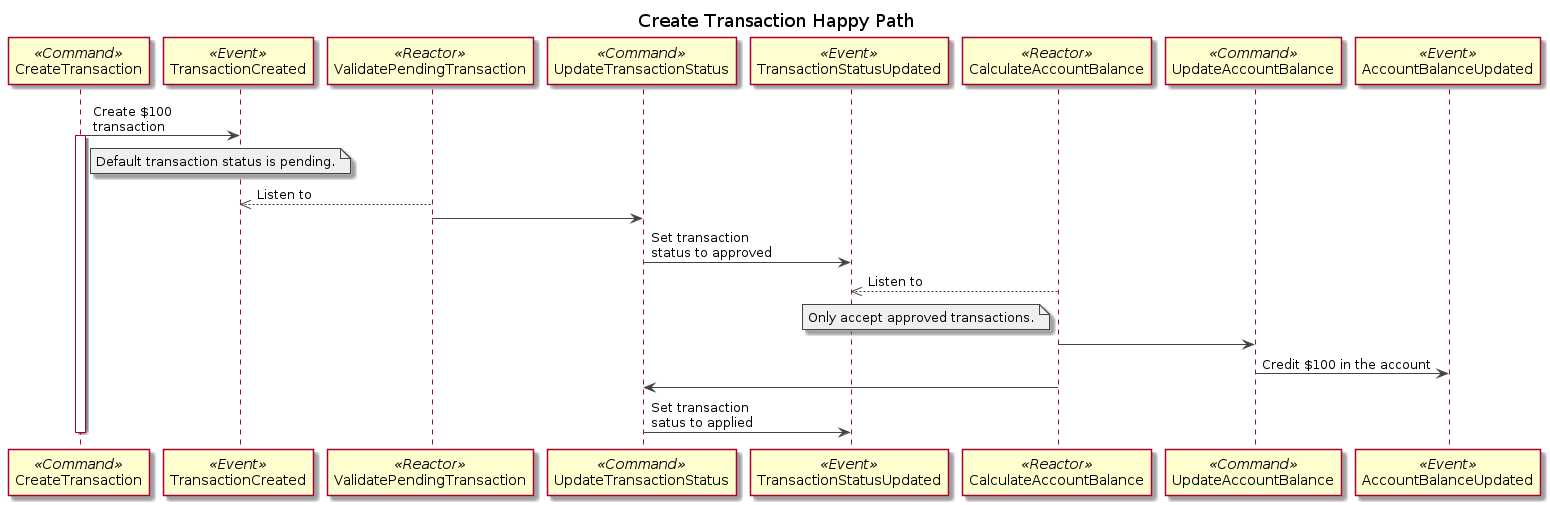
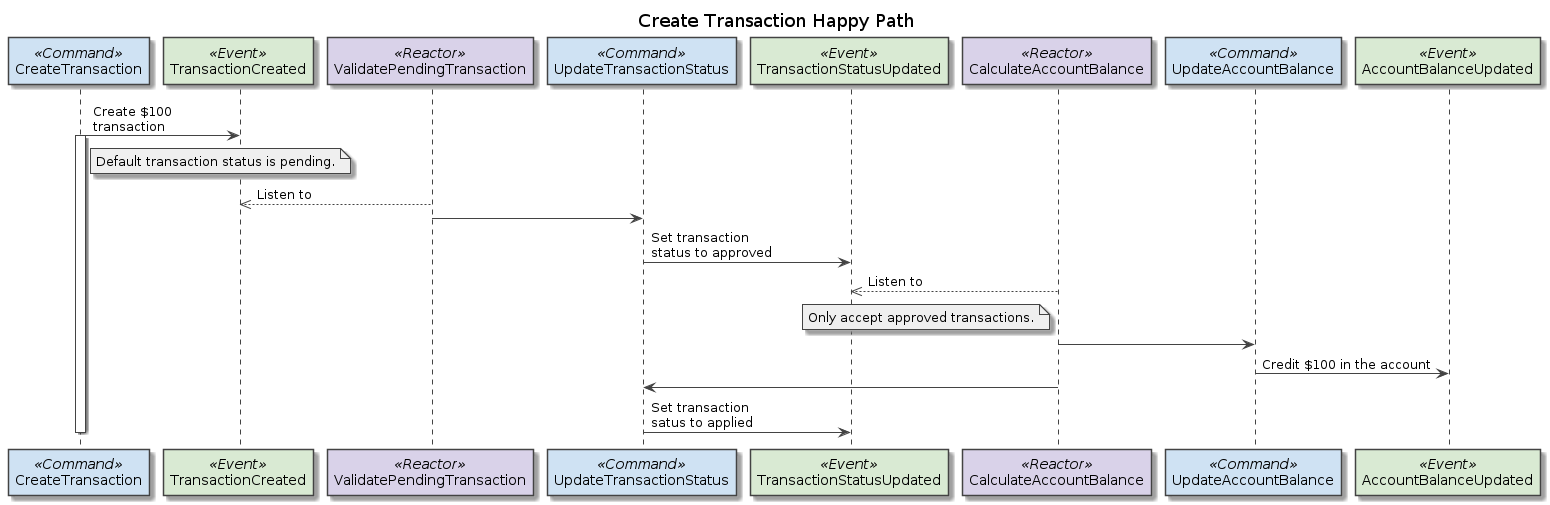
Render diagrams to apply styles changes
To apply changes of `stylus.puml` in the rendered diagrams, is
necessary to rebuild the docker container.

Changed region(s): [[0.0, 0.8614, 1.0, 1.0], [0.0, 0.0594, 1.0, 0.1782]]

diff --git a/docs/README.md b/docs/README.md
@@ -21,6 +21,10 @@ bundle exec rake docs:diagram:build_container
 bundle exec rake docs:diagram:render
 ```
 
+_**Note:** If `styles.puml` file changed, rebuilding the container is
+required before render the diagrams again, otherwise changes won't be
+applied._
+
 ## Build DIAGRAMS.md
 
 ```
